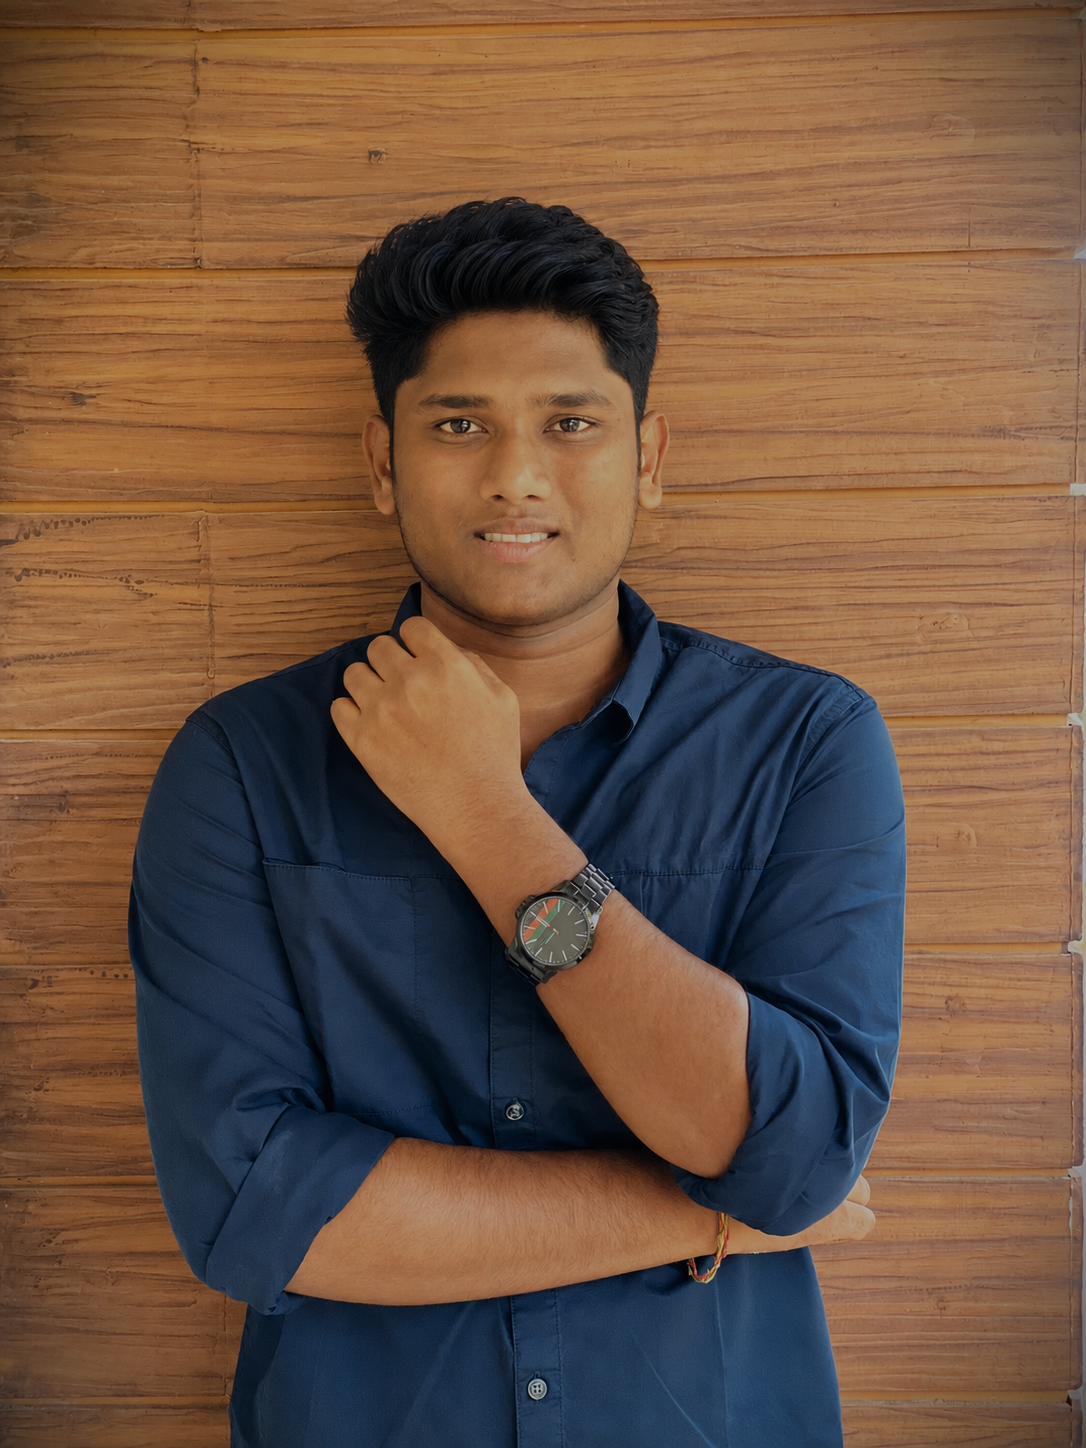
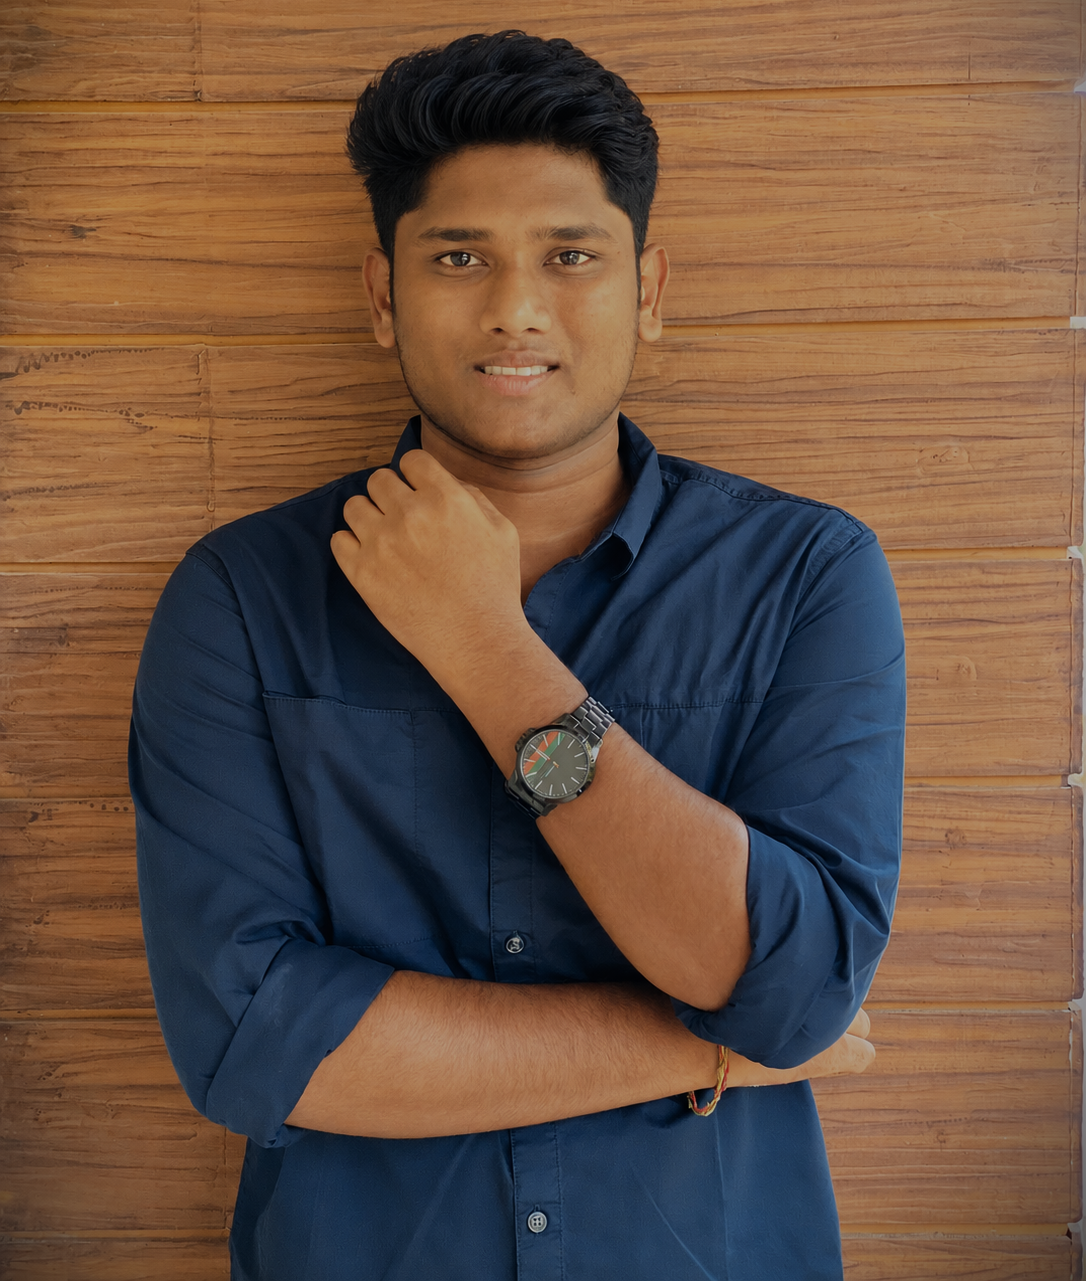
Updated files 07/03

diff --git a/index.html b/index.html
@@ -45,7 +45,7 @@
       </div>
 
       <div class="hero-photo-wrap">
-        <img class="hero-photo" src="assets/about-photo.JPG" alt="Hari Krishna Marni" />
+        <img class="hero-photo" src="assets/about-photo.png" alt="Hari Krishna Marni" />
       </div>
     </section>
 
